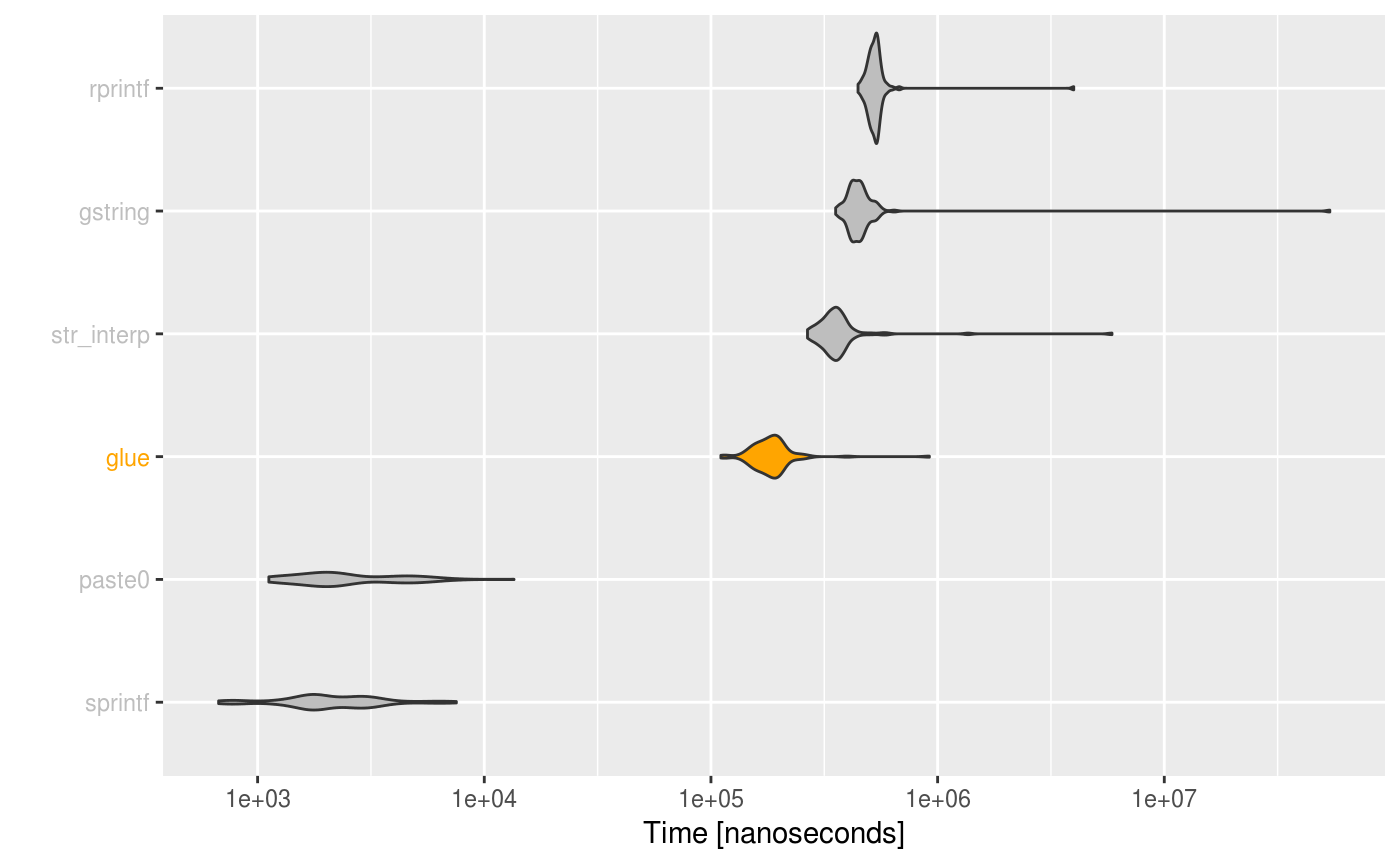
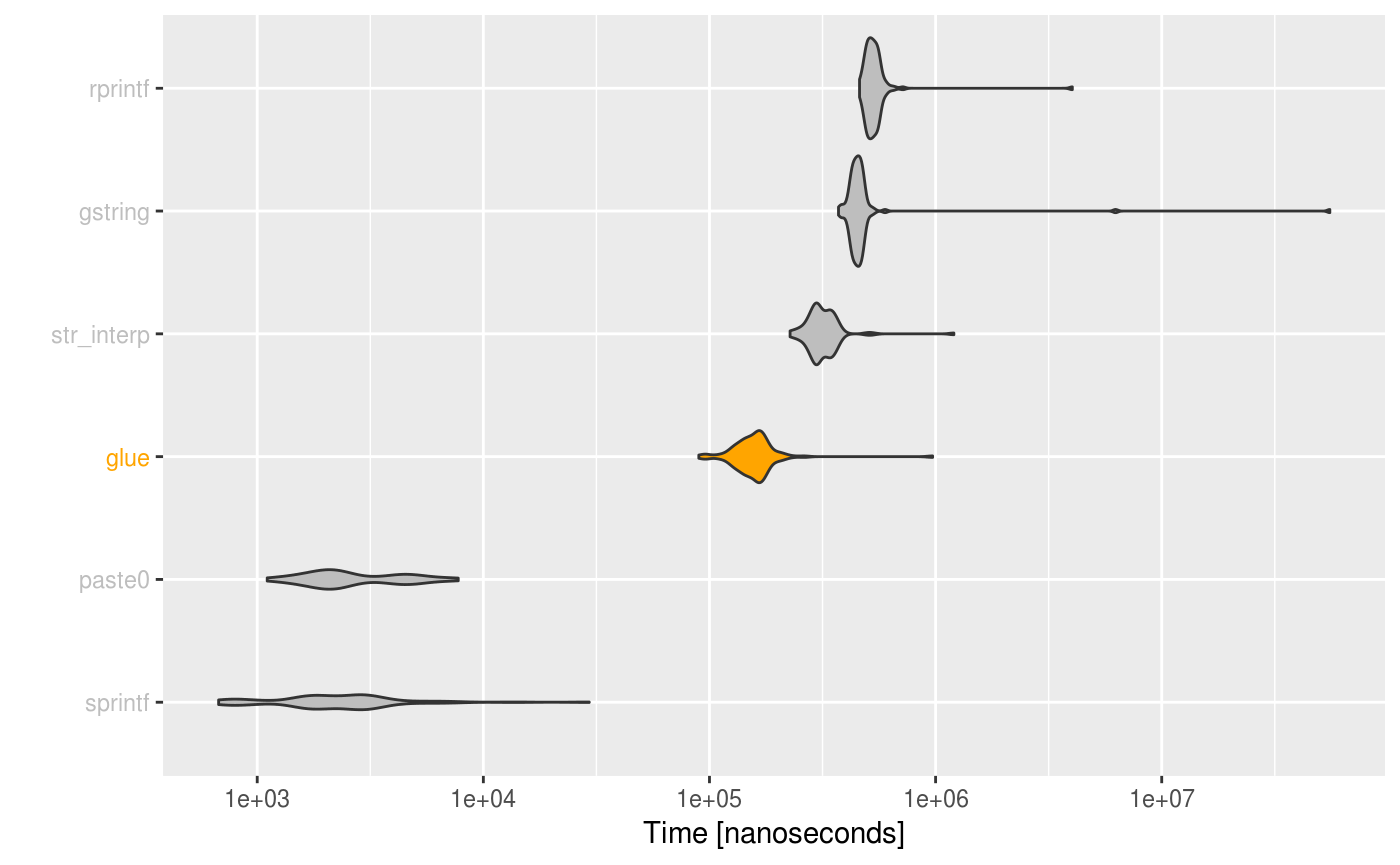
Built site for glue: 1.3.1.9000@ea0edcb

diff --git a/dev/articles/speed.html b/dev/articles/speed.html
@@ -146,12 +146,12 @@
 <a class="sourceLine" id="cb1-13" data-line-number="13"><span class="kw"><a href="https://www.rdocumentation.org/packages/base/topics/print">print</a></span>(<span class="dt">unit =</span> <span class="st">"eps"</span>, <span class="dt">order =</span> <span class="st">"median"</span>, <span class="dt">signif =</span> <span class="dv">4</span>, simple)</a>
 <a class="sourceLine" id="cb1-14" data-line-number="14"><span class="co">#&gt; Unit: evaluations per second</span></a>
 <a class="sourceLine" id="cb1-15" data-line-number="15"><span class="co">#&gt;        expr       min     lq   mean median     uq     max neval</span></a>
-<a class="sourceLine" id="cb1-16" data-line-number="16"><span class="co">#&gt;     rprintf    250.80   1837   1894   1888   1987    2245   100</span></a>
-<a class="sourceLine" id="cb1-17" data-line-number="17"><span class="co">#&gt;     gstring     18.61   2113   2225   2238   2404    2818   100</span></a>
-<a class="sourceLine" id="cb1-18" data-line-number="18"><span class="co">#&gt;  str_interp    170.10   2634   2834   2821   3085    3751   100</span></a>
-<a class="sourceLine" id="cb1-19" data-line-number="19"><span class="co">#&gt;        glue   1087.00   4952   5558   5443   6148    9041   100</span></a>
-<a class="sourceLine" id="cb1-20" data-line-number="20"><span class="co">#&gt;      paste0  73930.00 259100 460100 455200 586700  892100   100</span></a>
-<a class="sourceLine" id="cb1-21" data-line-number="21"><span class="co">#&gt;     sprintf 132800.00 342700 551900 528600 609900 1486000   100</span></a>
+<a class="sourceLine" id="cb1-16" data-line-number="16"><span class="co">#&gt;     rprintf    248.50   1806   1883   1908   2004    2170   100</span></a>
+<a class="sourceLine" id="cb1-17" data-line-number="17"><span class="co">#&gt;     gstring     18.05   2121   2188   2218   2321    2688   100</span></a>
+<a class="sourceLine" id="cb1-18" data-line-number="18"><span class="co">#&gt;  str_interp    830.30   2912   3213   3268   3459    4400   100</span></a>
+<a class="sourceLine" id="cb1-19" data-line-number="19"><span class="co">#&gt;        glue   1031.00   5809   6553   6260   7118   11150   100</span></a>
+<a class="sourceLine" id="cb1-20" data-line-number="20"><span class="co">#&gt;      paste0 129200.00 238200 421300 436600 525900  903300   100</span></a>
+<a class="sourceLine" id="cb1-21" data-line-number="21"><span class="co">#&gt;     sprintf  34020.00 335000 564000 466600 636400 1481000   100</span></a>
 <a class="sourceLine" id="cb1-22" data-line-number="22"></a>
 <a class="sourceLine" id="cb1-23" data-line-number="23"><span class="kw">plot_comparison</span>(simple)</a></code></pre></div>
 <p><img src="speed_files/figure-html/unnamed-chunk-1-1.png" width="700"></p>
@@ -179,11 +179,11 @@
 <a class="sourceLine" id="cb2-12" data-line-number="12"><span class="kw"><a href="https://www.rdocumentation.org/packages/base/topics/print">print</a></span>(<span class="dt">unit =</span> <span class="st">"ms"</span>, <span class="dt">order =</span> <span class="st">"median"</span>, <span class="dt">signif =</span> <span class="dv">4</span>, vectorized)</a>
 <a class="sourceLine" id="cb2-13" data-line-number="13"><span class="co">#&gt; Unit: milliseconds</span></a>
 <a class="sourceLine" id="cb2-14" data-line-number="14"><span class="co">#&gt;     expr   min    lq  mean median    uq   max neval</span></a>
-<a class="sourceLine" id="cb2-15" data-line-number="15"><span class="co">#&gt;  sprintf 13.41 13.53 13.87  13.61 13.86 18.37   100</span></a>
-<a class="sourceLine" id="cb2-16" data-line-number="16"><span class="co">#&gt;   paste0 15.78 16.02 16.44  16.20 16.47 21.68   100</span></a>
-<a class="sourceLine" id="cb2-17" data-line-number="17"><span class="co">#&gt;     glue 17.65 17.95 18.90  18.31 19.05 24.46   100</span></a>
-<a class="sourceLine" id="cb2-18" data-line-number="18"><span class="co">#&gt;  gstring 34.05 34.49 35.06  34.71 35.07 41.77   100</span></a>
-<a class="sourceLine" id="cb2-19" data-line-number="19"><span class="co">#&gt;  rprintf 53.53 53.88 54.88  54.37 55.21 61.53   100</span></a>
+<a class="sourceLine" id="cb2-15" data-line-number="15"><span class="co">#&gt;  sprintf 13.88 14.03 14.37  14.20 14.41 18.92   100</span></a>
+<a class="sourceLine" id="cb2-16" data-line-number="16"><span class="co">#&gt;   paste0 15.86 16.29 16.72  16.57 16.94 22.45   100</span></a>
+<a class="sourceLine" id="cb2-17" data-line-number="17"><span class="co">#&gt;     glue 19.86 20.38 21.09  20.84 21.35 25.75   100</span></a>
+<a class="sourceLine" id="cb2-18" data-line-number="18"><span class="co">#&gt;  gstring 34.15 34.80 35.50  35.20 35.84 40.43   100</span></a>
+<a class="sourceLine" id="cb2-19" data-line-number="19"><span class="co">#&gt;  rprintf 54.01 54.56 55.40  55.02 55.74 60.90   100</span></a>
 <a class="sourceLine" id="cb2-20" data-line-number="20"></a>
 <a class="sourceLine" id="cb2-21" data-line-number="21"><span class="kw">plot_comparison</span>(vectorized, <span class="dt">log =</span> <span class="ot">FALSE</span>)</a></code></pre></div>
 <p><img src="speed_files/figure-html/unnamed-chunk-2-1.png" width="700"></p>

diff --git a/dev/reference/glue.html b/dev/reference/glue.html
@@ -158,7 +158,8 @@ from the first and last lines are automatically trimmed.</p>
   <span class='kw'>.trim</span> <span class='kw'>=</span> <span class='fl'>TRUE</span>)
 
 <span class='fu'>glue</span>(<span class='no'>...</span>, <span class='kw'>.sep</span> <span class='kw'>=</span> <span class='st'>""</span>, <span class='kw'>.envir</span> <span class='kw'>=</span> <span class='fu'><a href='https://www.rdocumentation.org/packages/base/topics/sys.parent'>parent.frame</a></span>(), <span class='kw'>.open</span> <span class='kw'>=</span> <span class='st'>"{"</span>,
-  <span class='kw'>.close</span> <span class='kw'>=</span> <span class='st'>"}"</span>, <span class='kw'>.na</span> <span class='kw'>=</span> <span class='st'>"NA"</span>, <span class='kw'>.transformer</span> <span class='kw'>=</span> <span class='no'>identity_transformer</span>)</pre>
+  <span class='kw'>.close</span> <span class='kw'>=</span> <span class='st'>"}"</span>, <span class='kw'>.na</span> <span class='kw'>=</span> <span class='st'>"NA"</span>, <span class='kw'>.transformer</span> <span class='kw'>=</span> <span class='no'>identity_transformer</span>,
+  <span class='kw'>.trim</span> <span class='kw'>=</span> <span class='fl'>TRUE</span>)</pre>
     
     <h2 class="hasAnchor" id="arguments"><a class="anchor" href="#arguments"></a>Arguments</h2>
     <table class="ref-arguments">
